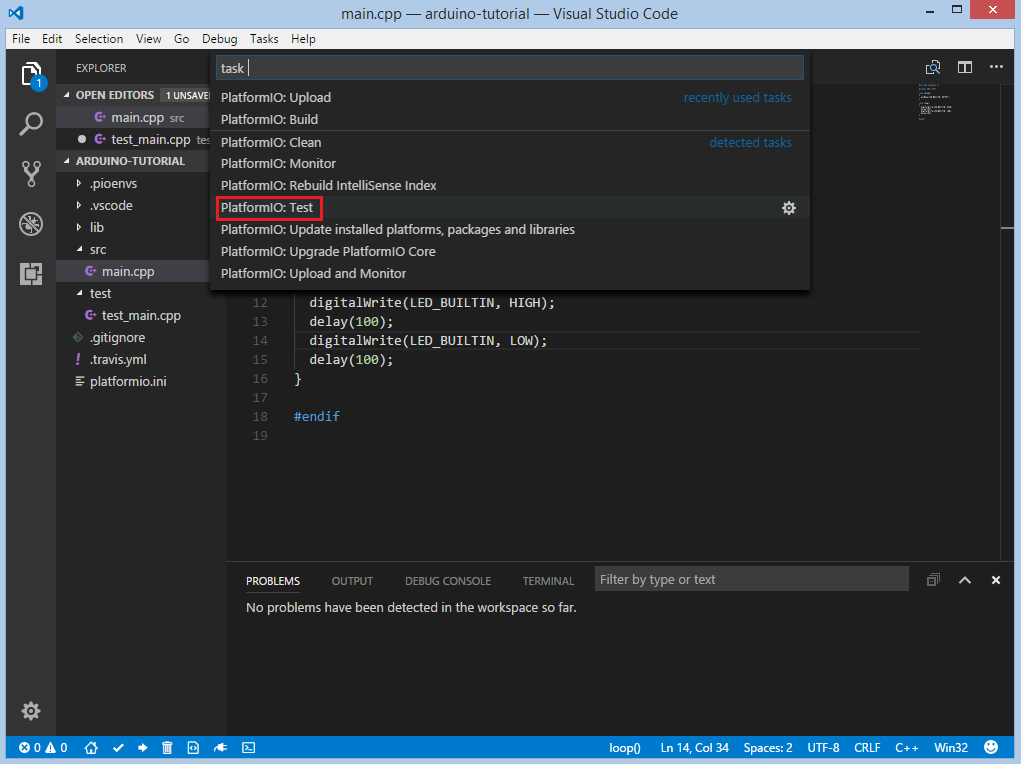
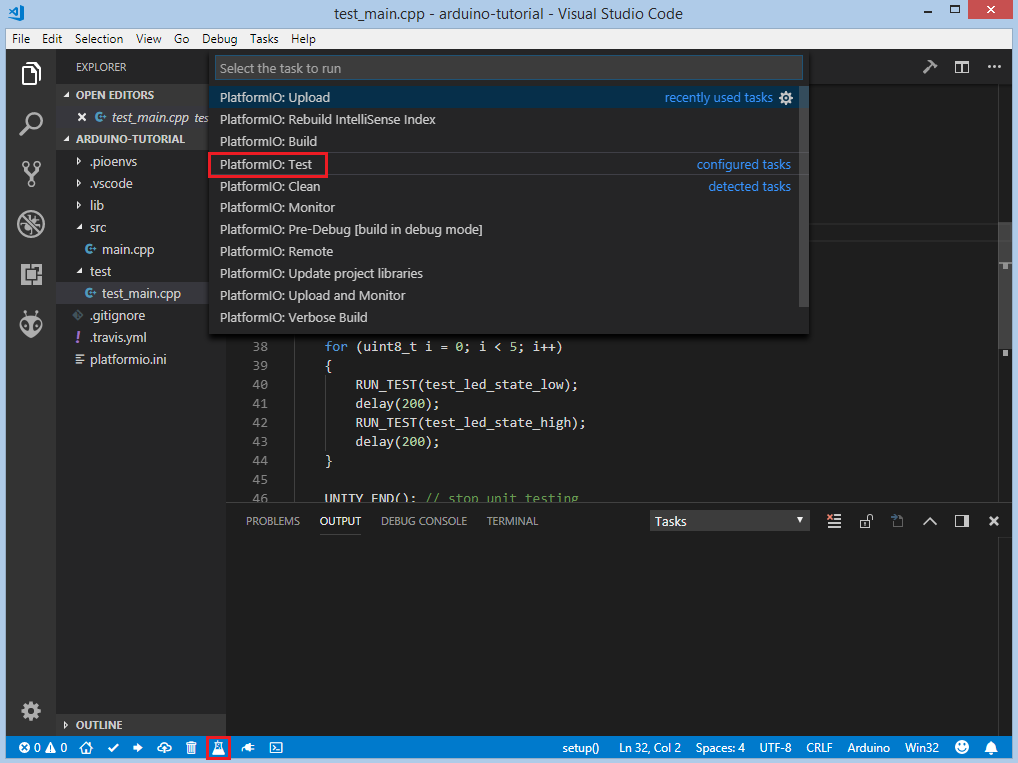
Update nRF52 tutorial with Arduino framework // Issue #33

diff --git a/tutorials/nordicnrf52/arduino_debugging_unit_testing.rst b/tutorials/nordicnrf52/arduino_debugging_unit_testing.rst
@@ -90,7 +90,17 @@ After successful uploading, the green LED1 should start blinking.
 Debugging the Firmware
 ----------------------
 
-:ref:`piodebug` offers the easiest way to debug your board. Just navigate to the top menu and select ``Debug: Start debugging`` or use hotkey button ``F5``:
+:ref:`piodebug` offers the easiest way to debug the board. Firstly, we need to specify :ref:`projectconf_debug_tool` in :ref:`projectconf`:
+
+.. code-block:: ini
+
+    [env:nrf52_dk]
+    platform = nordicnrf52
+    board = nrf52_dk
+    framework = arduino
+    debug_tool = jlink
+
+Then we can navigate to the top menu and select ``Debug: Start debugging`` or use hotkey button ``F5``:
 
 .. image:: ../../_static/tutorials/nordicnrf52/arduino-debugging-unit-testing-7.png
 
@@ -107,7 +117,7 @@ Writing Unit Tests
 
 Test cases can be added to a single file that may include multiple tests. First of all, in this file, we need to add four default functions: ``setUp``, ``tearDown``, ``setup`` and ``loop``. Functions ``setUp`` and ``tearDown`` are used to initialize and finalize test conditions. Implementations of these functions are not required for running tests but if you need to initialize some variables before you run a test, you use the ``setUp`` function and if you need to clean up variables you use ``tearDown`` function. In our example we will use these functions to accordingly initialize and deinitialize LED.  ``setup`` and ``loop`` functions act as a simple Arduino program where we describe our test plan.
 
-Let’s implement some basic tests for blinking routine:
+Let's create ``test`` folder in the root of the project and add a new file ``test_main.cpp`` to this folder. Next basic tests will be implemented in this file:
 
 * ``test_led_builtin_pin_number`` ensures that ``LED_BUILTIN`` has the correct value for this board
 * ``test_led_state_high`` tests functions ``digitalWrite`` and ``digitalRead`` with ``HIGH`` value
@@ -116,6 +126,7 @@ Let’s implement some basic tests for blinking routine:
 .. note::
   * LEDs on this board are active ``LOW``, so we need to write logical ``0`` to illuminate the LED
   * At the moment there is an issue with the function ``digitalRead`` which always returns ``LOW``
+  * 2 sec delay is requried since the board doesn't support software reseting via ``Serial.DTR/RTS``
 
 .. code-block:: cpp
 
@@ -146,7 +157,7 @@ Let’s implement some basic tests for blinking routine:
     void test_led_state_low(void)
     {
         digitalWrite(LED_BUILTIN, LOW);
-        TEST_ASSERT_EQUAL(LOW, digitalRead(LOW, LED_BUILTIN));
+        TEST_ASSERT_EQUAL(LOW, digitalRead(LED_BUILTIN));
     }
 
     void setup()
@@ -171,7 +182,7 @@ Let’s implement some basic tests for blinking routine:
     }
 
 
-Now we are ready to upload tests to the board. To do this we can use ``Tasks: Run Task... > PlatformIO Test`` from top menu:
+Now we are ready to upload tests to the board. To do this we can use ``Tasks: Run Task... > PlatformIO Test`` from top menu or Test button on :ref:`ide_vscode_toolbar`:
 
 .. image:: ../../_static/tutorials/nordicnrf52/arduino-debugging-unit-testing-10.png
 
@@ -195,6 +206,7 @@ Both these modifications can be specified in :ref:`projectconf`:
     platform = nordicnrf52
     board = nrf52_dk
     framework = arduino
+    debug_tool = jlink
     ; SoftDevice version
     build_flags = -DNRF52_S132
     lib_deps =
